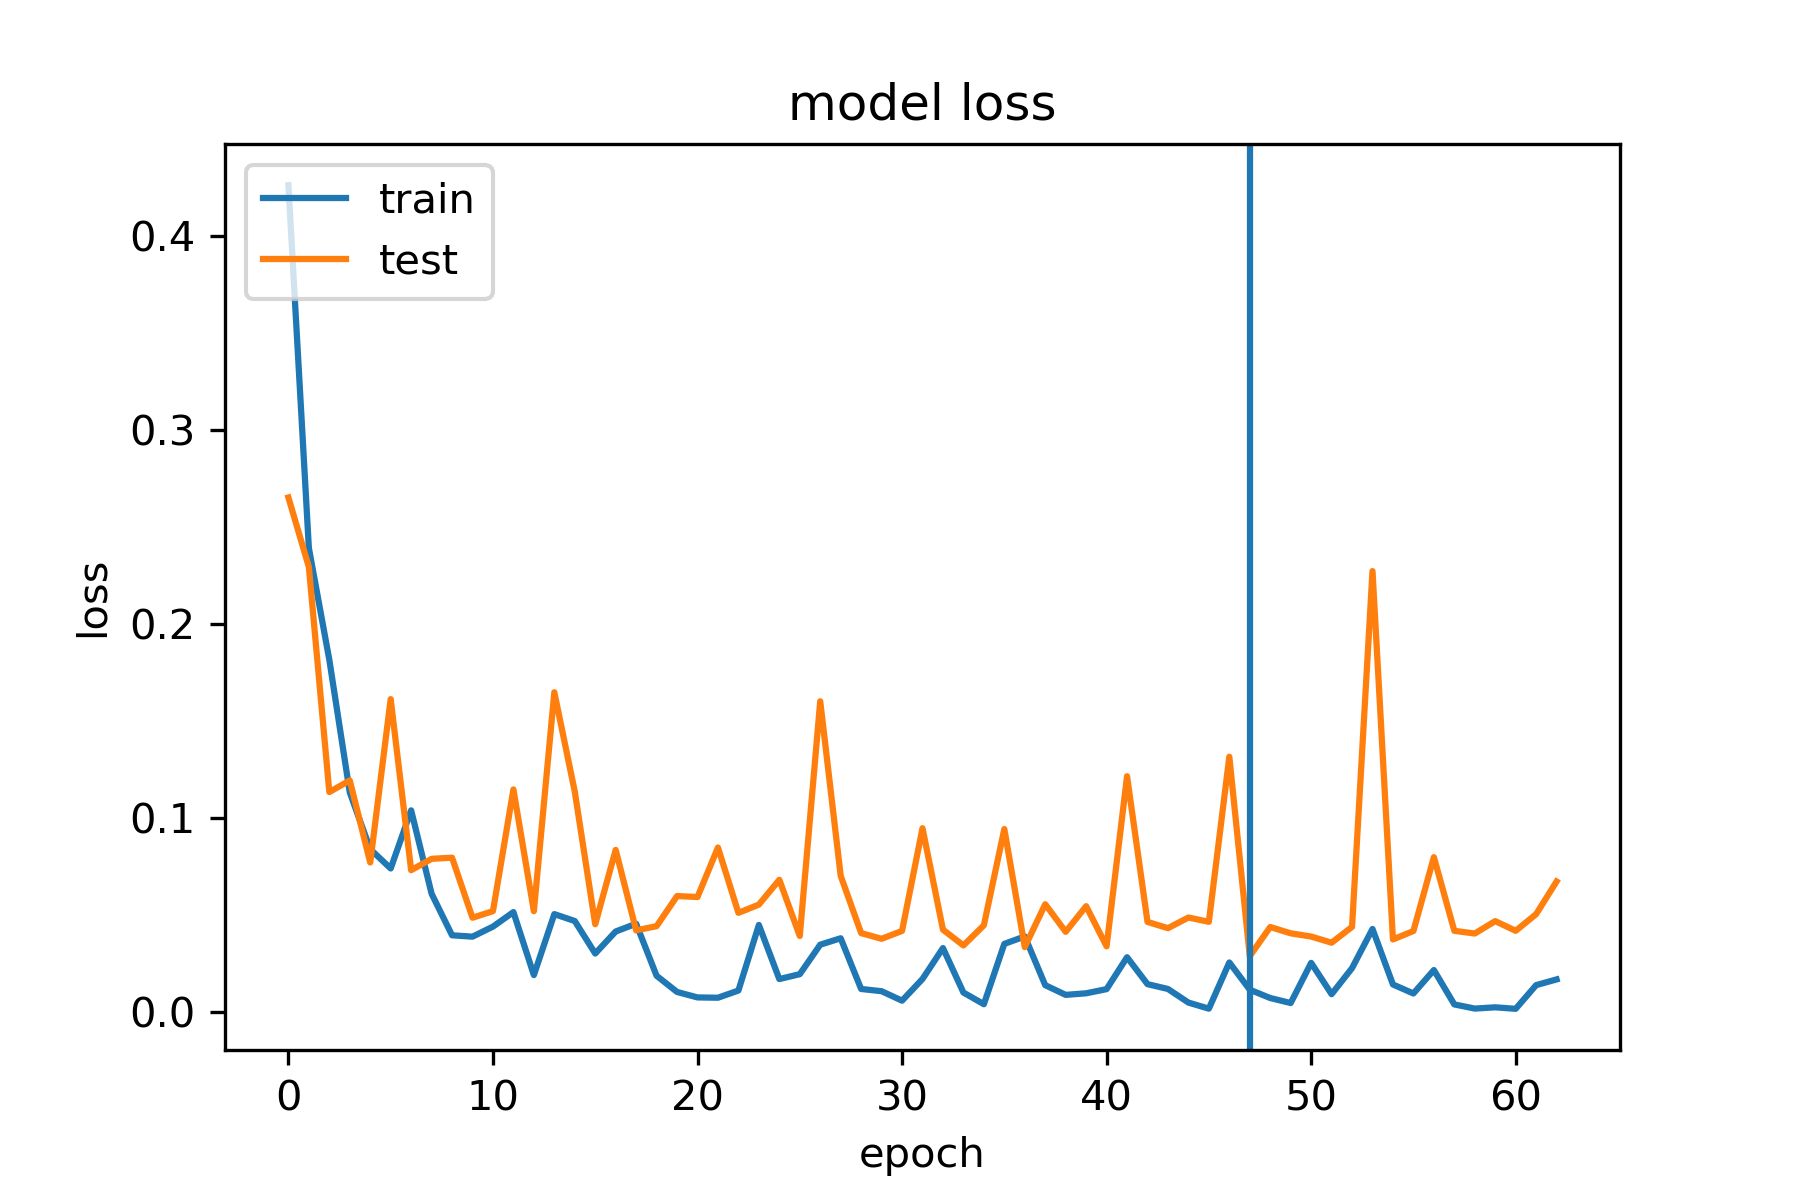
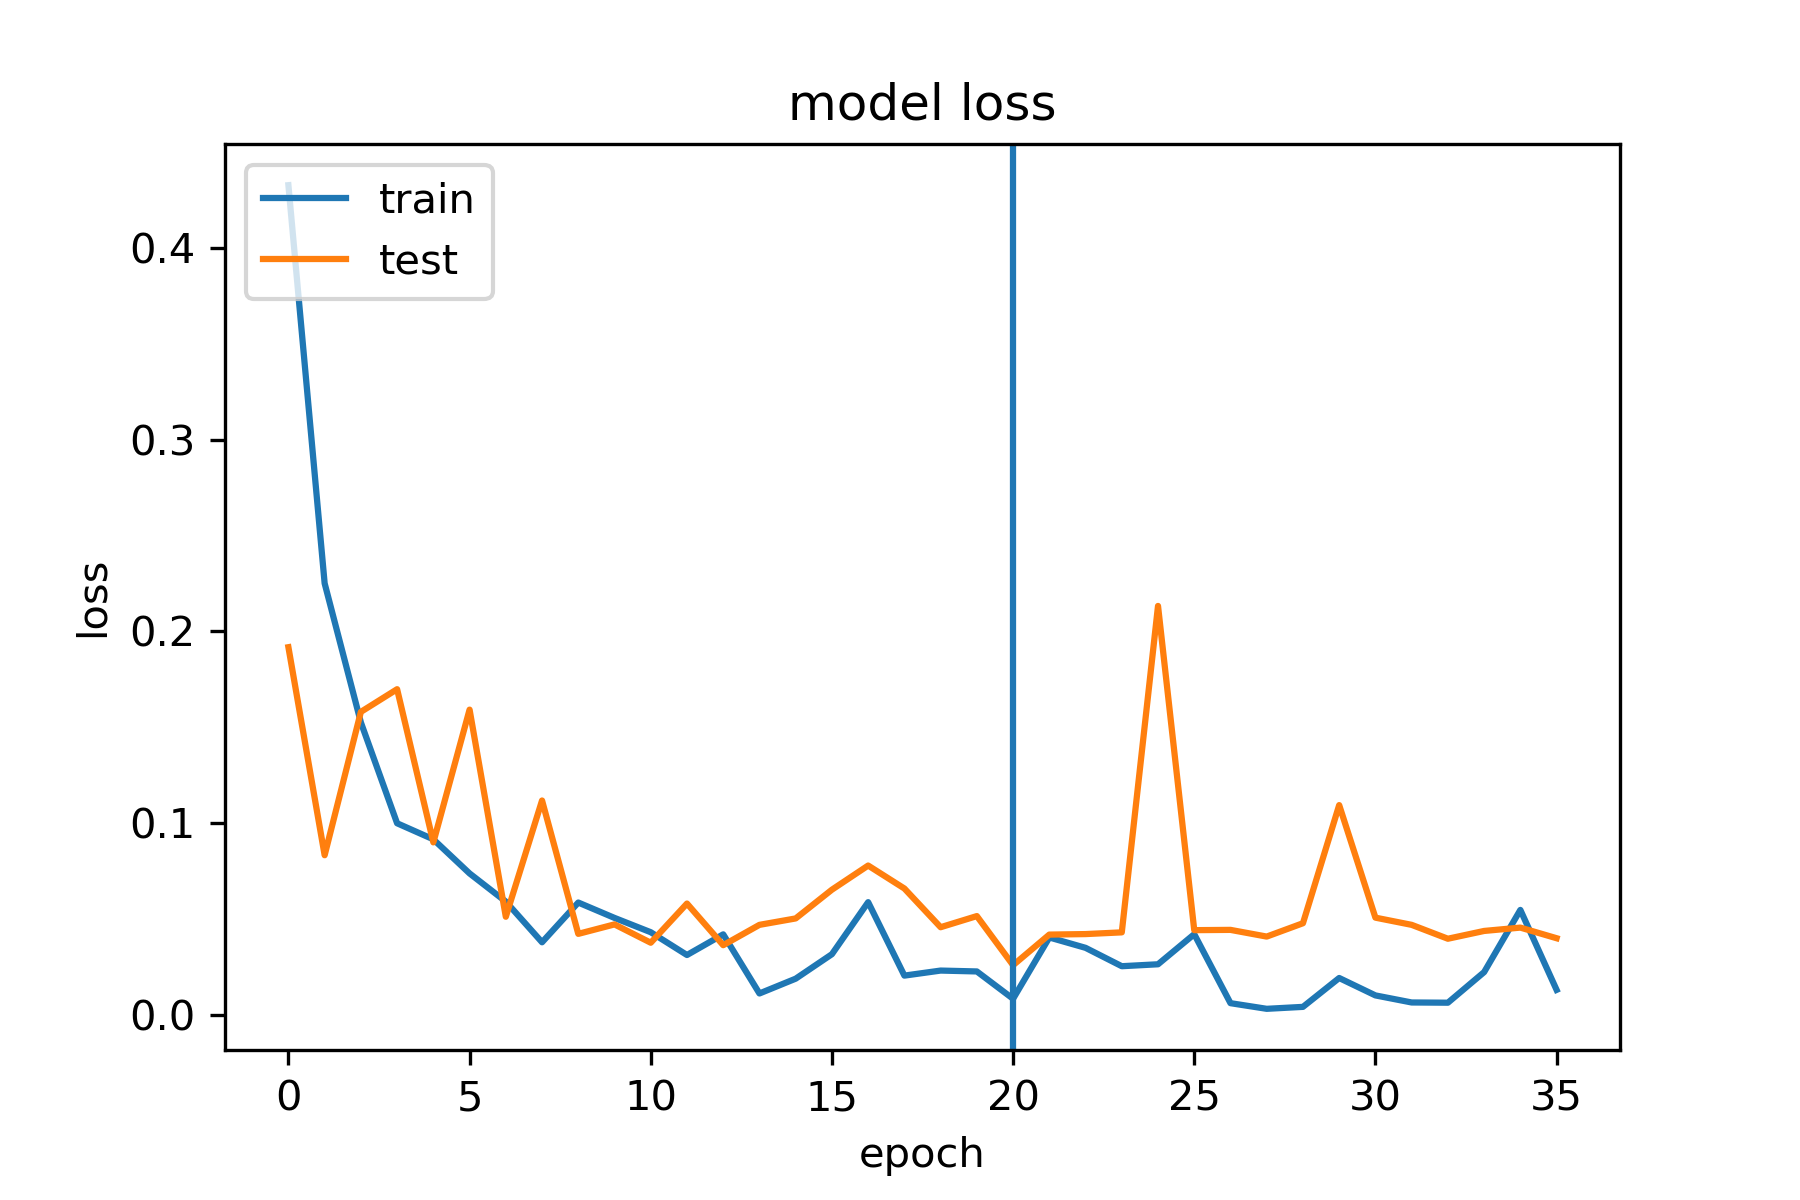
added data augmentation version

diff --git a/scripts/modelD_cnn_2.py b/scripts/modelD_cnn_2.py
@@ -31,10 +31,23 @@ os.chdir("../")
 
 #%% Importing data
 datagen = ImageDataGenerator(rescale=1/255.0)
+
+datagen_aug = ImageDataGenerator(rescale=1/255.0,
+                             width_shift_range=0.1, 
+                             height_shift_range=0.1)
+
 datagen_test = ImageDataGenerator(rescale=1/255.0)
 batch_size = 32
 
 train_gen = datagen.flow_from_directory('data/split/D/train', 
+                                        batch_size=batch_size,
+                                        shuffle=True,
+                                        seed=1234,
+                                        class_mode='categorical',
+                                        color_mode='grayscale',
+                                        target_size=(32, 62))
+
+train_gen_aug = datagen_aug.flow_from_directory('data/split/D/train', 
                                         batch_size=batch_size,
                                         shuffle=True,
                                         seed=1234,
@@ -297,16 +310,37 @@ hist = modelD.fit(train_gen,
             epochs=100,
             callbacks=[tensorboard_callback, modelCheckpoint, earlyStop])
 
+
 #%% Evaluation
 modelD.load_weights(checkpoint_filepath)
 modelD.evaluate(test_gen) #accuracy 0.8422
 
-#%%
+#%% Saving model
 modelD.save('models/modelD')
+
+#%% With data augmentation
+modelD_aug = final_model(params)
+
+hist_aug = modelD_aug.fit(train_gen_aug,
+            steps_per_epoch=STEP_SIZE_TRAIN,
+            validation_data=val_gen,
+            validation_steps=STEP_SIZE_VALID,
+            epochs=100,
+            callbacks=[tensorboard_callback, modelCheckpoint, earlyStop])
+
+#%% Evaluation
+modelD_aug.load_weights(checkpoint_filepath)
+modelD_aug.evaluate(test_gen) #accuracy 0.8422
+
+#%% saving model
+modelD_aug.save('models/modelD_aug')
 
 #%%
 modelD = tf.keras.models.load_model('models/modelD')
 modelD.evaluate(test_gen)
+
+modelD_aug = tf.keras.models.load_model('models/modelD_aug')
+modelD_aug.evaluate(test_gen)
 
 #%%
 def plot_confusion_matrix(df_confusion, title='Confusion matrix'):
@@ -318,44 +352,25 @@ df_confusion = pd.crosstab(test_gen.classes, y_test_hat, rownames=['Actual'], co
 plot_confusion_matrix(df_confusion)
 
 #%% Plotting model
-best_epoch = np.argmax(hist.history['val_accuracy'])
 
-plt.plot(hist.history['accuracy'])
-plt.plot(hist.history['val_accuracy'])
-plt.axvline(x=best_epoch)
-plt.title('model accuracy')
-plt.ylabel('accuracy')
-plt.xlabel('epoch')
-plt.legend(['train', 'test'], loc='upper left')
-plt.savefig('plots/modelD_acc.png', dpi=300)
-plt.show()
+def plot_hist(hist, stop_metric, metric, path):
+    best_epoch = np.argmax(hist.history[stop_metric])
+    plt.plot(hist.history[metric])
+    plt.plot(hist.history['val_' + metric])
+    plt.axvline(x=best_epoch)
+    plt.title('model ' + metric)
+    plt.ylabel(metric)
+    plt.xlabel('epoch')
+    plt.legend(['train', 'test'], loc='upper left')
+    plt.savefig(path, dpi=300)
+    plt.show()
 
-plt.plot(hist.history['prc'])
-plt.plot(hist.history['val_prc'])
-plt.axvline(x=best_epoch)
-plt.title('model PRc')
-plt.ylabel('Precision-Recall curve')
-plt.xlabel('epoch')
-plt.legend(['train', 'test'], loc='upper left')
-plt.savefig('plots/modelD_prc.png', dpi=300)
-plt.show()
+plot_hist(hist, 'val_accuracy', 'accuracy', 'plots/modelD_acc.png')
+plot_hist(hist, 'val_accuracy', 'prc', 'plots/modelD_prc.png')
+plot_hist(hist, 'val_accuracy', 'kappa', 'plots/modelD_kappa.png')
+plot_hist(hist, 'val_accuracy', 'loss', 'plots/modelD_loss.png')
 
-plt.plot(hist.history['loss'])
-plt.plot(hist.history['val_loss'])
-plt.axvline(x=best_epoch)
-plt.title('model loss')
-plt.ylabel('loss')
-plt.xlabel('epoch')
-plt.legend(['train', 'test'], loc='upper left')
-plt.savefig('plots/modelD_loss.png', dpi=300)
-plt.show()
-
-plt.plot(hist.history['kappa'])
-plt.plot(hist.history['val_kappa'])
-plt.axvline(x=best_epoch)
-plt.title('model kappa')
-plt.ylabel('kappa')
-plt.xlabel('epoch')
-plt.legend(['train', 'test'], loc='upper left')
-plt.savefig('plots/modelD_kappa.png', dpi=300)
-plt.show()
+plot_hist(hist_aug, 'val_accuracy', 'accuracy', 'plots/modelD_acc_aug.png')
+plot_hist(hist_aug, 'val_accuracy', 'prc', 'plots/modelD_prc_aug.png')
+plot_hist(hist_aug, 'val_accuracy', 'kappa', 'plots/modelD_kappa_aug.png')
+plot_hist(hist_aug, 'val_accuracy', 'loss', 'plots/modelD_loss_aug.png')

diff --git a/scripts/modelCC_cnn_2.py b/scripts/modelCC_cnn_2.py
@@ -30,10 +30,23 @@ os.chdir("../")
 
 #%% Importing data
 datagen = ImageDataGenerator(rescale=1/255.0)
+
+datagen_aug = ImageDataGenerator(rescale=1/255.0,
+                                 width_shift_range=0.1,
+                                 height_shift_range=0.1)
+
 datagen_test = ImageDataGenerator(rescale=1/255.0)
 batch_size = 32
 
 train_gen = datagen.flow_from_directory('data/split/CC/train', 
+                                        batch_size=batch_size,
+                                        shuffle=True,
+                                        seed=1234,
+                                        class_mode='binary',
+                                        color_mode='grayscale',
+                                        target_size=(32, 62))
+
+train_gen_aug = datagen_aug.flow_from_directory('data/split/CC/train', 
                                         batch_size=batch_size,
                                         shuffle=True,
                                         seed=1234,
@@ -297,14 +310,36 @@ hist = modelCC.fit(train_gen,
 
 #%% Evaluation
 modelCC.load_weights(checkpoint_filepath)
-modelCC.evaluate(test_gen) #accuracy 0.9875
+modelCC.evaluate(test_gen) #accuracy 0.9933
 
 #%%
 modelCC.save('models/modelCC')
 
 #%%
+
+modelCC_aug = final_model(params)
+
+hist_aug = modelCC.fit(train_gen_aug,
+            steps_per_epoch=STEP_SIZE_TRAIN,
+            validation_data=val_gen,
+            validation_steps=STEP_SIZE_VALID,
+            epochs=100,
+            callbacks=[tensorboard_callback, modelCheckpoint, earlyStop],
+            class_weight=train_class_weights)
+
+#%% Evaluation
+modelCC_aug.load_weights(checkpoint_filepath)
+modelCC_aug.evaluate(test_gen) #accuracy 0.9933
+
+#%%
+modelCC_aug.save('models/modelCC_aug')
+
+#%%
 modelCC = tf.keras.models.load_model('models/modelCC')
 modelCC.evaluate(test_gen)
+
+modelCC_aug = tf.keras.models.load_model('models/modelCC_aug')
+modelCC_aug.evaluate(test_gen)
 
 #%%
 def plot_confusion_matrix(df_confusion, title='Confusion matrix'):
@@ -316,44 +351,26 @@ df_confusion = pd.crosstab(test_gen.classes, y_test_hat, rownames=['Actual'], co
 plot_confusion_matrix(df_confusion)
 
 #%% Plotting model
-best_epoch = np.argmax(hist.history['val_kappa'])
 
-plt.plot(hist.history['accuracy'])
-plt.plot(hist.history['val_accuracy'])
-plt.axvline(x=best_epoch)
-plt.title('model accuracy')
-plt.ylabel('accuracy')
-plt.xlabel('epoch')
-plt.legend(['train', 'test'], loc='upper left')
-plt.savefig('plots/modelCC_acc.png', dpi=300)
-plt.show()
+def plot_hist(hist, stop_metric, metric, path):
+    best_epoch = np.argmax(hist.history[stop_metric])
+    plt.plot(hist.history[metric])
+    plt.plot(hist.history['val_' + metric])
+    plt.axvline(x=best_epoch)
+    plt.title('model ' + metric)
+    plt.ylabel(metric)
+    plt.xlabel('epoch')
+    plt.legend(['train', 'test'], loc='upper left')
+    plt.savefig(path, dpi=300)
+    plt.show()
 
-plt.plot(hist.history['prc'])
-plt.plot(hist.history['val_prc'])
-plt.axvline(x=best_epoch)
-plt.title('model PRc')
-plt.ylabel('Precision-Recall curve')
-plt.xlabel('epoch')
-plt.legend(['train', 'test'], loc='upper left')
-plt.savefig('plots/modelCC_prc.png', dpi=300)
-plt.show()
+plot_hist(hist, 'val_accuracy', 'accuracy', 'plots/modelCC_acc.png')
+plot_hist(hist, 'val_accuracy', 'prc', 'plots/modelCC_prc.png')
+plot_hist(hist, 'val_accuracy', 'loss', 'plots/modelCC_loss.png')
+plot_hist(hist, 'val_accuracy', 'kappa', 'plots/modelCC_kappa.png')
+    
+plot_hist(hist_aug, 'val_accuracy', 'accuracy', 'plots/modelCC_acc_aug.png')
+plot_hist(hist_aug, 'val_accuracy', 'prc', 'plots/modelCC_prc_aug.png')
+plot_hist(hist_aug, 'val_accuracy', 'loss', 'plots/modelCC_loss_aug.png')
+plot_hist(hist_aug, 'val_accuracy', 'kappa', 'plots/modelCC_kappa_aug.png')
 
-plt.plot(hist.history['loss'])
-plt.plot(hist.history['val_loss'])
-plt.axvline(x=best_epoch)
-plt.title('model loss')
-plt.ylabel('loss')
-plt.xlabel('epoch')
-plt.legend(['train', 'test'], loc='upper left')
-plt.savefig('plots/modelCC_loss.png', dpi=300)
-plt.show()
-
-plt.plot(hist.history['kappa'])
-plt.plot(hist.history['val_kappa'])
-plt.axvline(x=best_epoch)
-plt.title('model kappa')
-plt.ylabel('kappa')
-plt.xlabel('epoch')
-plt.legend(['train', 'test'], loc='upper left')
-plt.savefig('plots/modelCC_kappa.png', dpi=300)
-plt.show()

diff --git a/scripts/modelY_cnn_2.py b/scripts/modelY_cnn_2.py
@@ -30,10 +30,23 @@ os.chdir("../")
 
 #%% Importing data
 datagen = ImageDataGenerator(rescale=1/255.0)
+
+datagen_aug = ImageDataGenerator(rescale=1/255.0,
+                                 width_shift_range=0.1,
+                                 height_shift_range=0.1)
+
 datagen_test = ImageDataGenerator(rescale=1/255.0)
 batch_size = 32
 
 train_gen = datagen.flow_from_directory('data/split/Y/train', 
+                                        batch_size=batch_size,
+                                        shuffle=True,
+                                        seed=1234,
+                                        class_mode='categorical',
+                                        color_mode='grayscale',
+                                        target_size=(32, 62))
+
+train_gen_aug = datagen_aug.flow_from_directory('data/split/Y/train', 
                                         batch_size=batch_size,
                                         shuffle=True,
                                         seed=1234,
@@ -304,9 +317,29 @@ modelY.evaluate(test_gen) #accuracy 0.8422
 #%%
 modelY.save('models/modelY')
 
+#%% With data augmentation
+modelY_aug = final_model(params)
+
+hist_aug = modelY_aug.fit(train_gen_aug,
+            steps_per_epoch=STEP_SIZE_TRAIN,
+            validation_data=val_gen,
+            validation_steps=STEP_SIZE_VALID,
+            epochs=100,
+            callbacks=[tensorboard_callback, modelCheckpoint, earlyStop])
+
+#%% Evaluation
+modelY_aug.load_weights(checkpoint_filepath)
+modelY_aug.evaluate(test_gen) #accuracy 0.8422
+
+#%%
+modelY_aug.save('models/modelY_aug')
+
 #%%
 modelY = tf.keras.models.load_model('models/modelY')
 modelY.evaluate(test_gen)
+
+modelY_aug = tf.keras.models.load_model('models/modelY_aug')
+modelY_aug.evaluate(test_gen)
 
 #%%
 def plot_confusion_matrix(df_confusion, title='Confusion matrix'):
@@ -318,44 +351,26 @@ df_confusion = pd.crosstab(test_gen.classes, y_test_hat, rownames=['Actual'], co
 plot_confusion_matrix(df_confusion)
 
 #%% Plotting model
-best_epoch = np.argmax(hist.history['val_accuracy'])
 
-plt.plot(hist.history['accuracy'])
-plt.plot(hist.history['val_accuracy'])
-plt.axvline(x=best_epoch)
-plt.title('model accuracy')
-plt.ylabel('accuracy')
-plt.xlabel('epoch')
-plt.legend(['train', 'test'], loc='upper left')
-plt.savefig('plots/modelY_acc.png', dpi=300)
-plt.show()
+def plot_hist(hist, stop_metric, metric, path):
+    best_epoch = np.argmax(hist.history[stop_metric])
+    plt.plot(hist.history[metric])
+    plt.plot(hist.history['val_' + metric])
+    plt.axvline(x=best_epoch)
+    plt.title('model ' + metric)
+    plt.ylabel(metric)
+    plt.xlabel('epoch')
+    plt.legend(['train', 'test'], loc='upper left')
+    plt.savefig(path, dpi=300)
+    plt.show()
 
-plt.plot(hist.history['prc'])
-plt.plot(hist.history['val_prc'])
-plt.axvline(x=best_epoch)
-plt.title('model PRc')
-plt.ylabel('Precision-Recall curve')
-plt.xlabel('epoch')
-plt.legend(['train', 'test'], loc='upper left')
-plt.savefig('plots/modelY_prc.png', dpi=300)
-plt.show()
+plot_hist(hist, 'val_accuracy', 'accuracy', 'plots/modelY_acc.png')
+plot_hist(hist, 'val_accuracy', 'prc', 'plots/modelY_prc.png')
+plot_hist(hist, 'val_accuracy', 'loss', 'plots/modelY_loss.png')
+plot_hist(hist, 'val_accuracy', 'kappa', 'plots/modelY_kappa.png')
+    
+plot_hist(hist_aug, 'val_accuracy', 'accuracy', 'plots/modelY_acc_aug.png')
+plot_hist(hist_aug, 'val_accuracy', 'prc', 'plots/modelY_prc_aug.png')
+plot_hist(hist_aug, 'val_accuracy', 'loss', 'plots/modelY_loss_aug.png')
+plot_hist(hist_aug, 'val_accuracy', 'kappa', 'plots/modelY_kappa_aug.png')
 
-plt.plot(hist.history['loss'])
-plt.plot(hist.history['val_loss'])
-plt.axvline(x=best_epoch)
-plt.title('model loss')
-plt.ylabel('loss')
-plt.xlabel('epoch')
-plt.legend(['train', 'test'], loc='upper left')
-plt.savefig('plots/modelY_loss.png', dpi=300)
-plt.show()
-
-plt.plot(hist.history['kappa'])
-plt.plot(hist.history['val_kappa'])
-plt.axvline(x=best_epoch)
-plt.title('model kappa')
-plt.ylabel('kappa')
-plt.xlabel('epoch')
-plt.legend(['train', 'test'], loc='upper left')
-plt.savefig('plots/modelY_kappa.png', dpi=300)
-plt.show()
